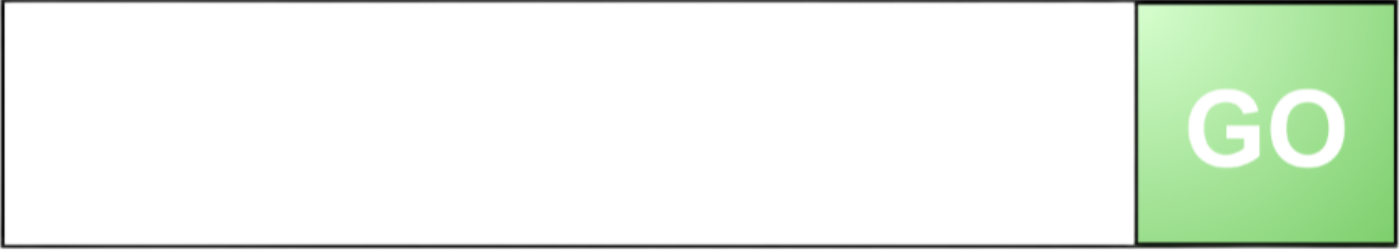
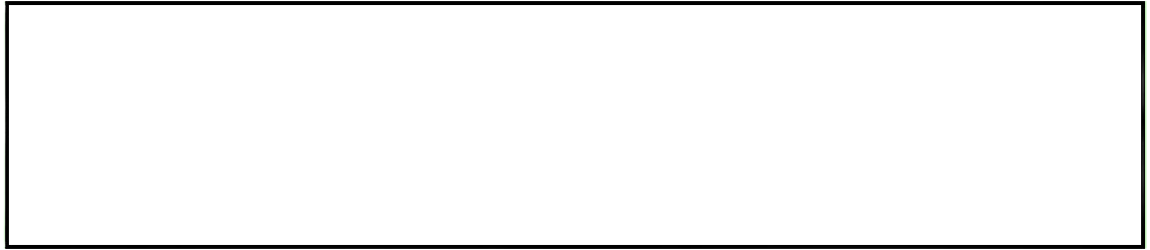
Implement typing functionality to user interface

Changed region(s): [[0.0, 0.0, 1.0, 1.0]]

diff --git a/src/sfmlhelpers.cpp b/src/sfmlhelpers.cpp
@@ -7,7 +7,7 @@
 
 // a lot of this has been inspired by and copied from my minesweeper project - Rylee
 
-TextureManager::TextureManager() : prefixbutton(prefixsearch), wordsearchbutton(wordsearch), gobutton(searchbar){
+TextureManager::TextureManager() : prefixbutton(prefixsearch), wordsearchbutton(wordsearch), gobutton(gotexture), searchbarsprite(searchbar){
 	if (!prefixsearch.loadFromFile("assets/images/prefixsearch.png"))
     	std::cout << "Failed to load prefixsearch" << std::endl;
 
@@ -30,10 +30,17 @@ TextureManager::TextureManager() : prefixbutton(prefixsearch), wordsearchbutton(
 
 	if (!searchbar.loadFromFile("assets/images/searchbar.png"))
 		std::cout << "Failed to load searchbar" << std::endl;
+
+	searchbarsprite.setTexture(searchbar, true);
+	searchbarsprite.setScale({.5, .5});
+	searchbarsprite.setPosition({585, 150});
+
+	if (!gotexture.loadFromFile("assets/images/gobutton.png"))
+		std::cout << "Failed to load go button" << std::endl;
 	
-	gobutton.setTexture(searchbar, true);
-	gobutton.setScale({.5, .5});
-	gobutton.setPosition({630, 160});
+	gobutton.setTexture(gotexture, true);
+	gobutton.setScale({.51, .51});
+	gobutton.setPosition({1148, 149});
 }
 
 // taken from the minesweeper specs with some modifications for sfml 3.0.2
@@ -66,7 +73,6 @@ DisplayWindow::DisplayWindow() :
   	hashtime(font),
   	hashresults(font){
 
-
 	// load our text font
 	font.openFromFile("assets/arialuni.ttf");
 
@@ -77,7 +83,6 @@ DisplayWindow::DisplayWindow() :
 
 	configureStaticText();
 }
-
 
 void DisplayWindow::configureStaticText(){
 	horizontaldivider.setSize({1839.5, 2});
@@ -93,6 +98,7 @@ void DisplayWindow::configureStaticText(){
 	setupText(wholedescription, "Search for a direct\n\n\ntranslation of the\n\n\nentered word.", 20, sf::Color::Black, {1754, 395}, false);
 	setupText(trietitle, "Trie Implementation", 50, sf::Color::Black, {490, 560}, true);
 	setupText(hashtitle, "Hash Map Implementation", 50, sf::Color::Black, {1433, 560}, true);
+	setupText(inputword, "", 35, sf::Color::Black, {630, 190}, false);
 }
 
 // signifcant help from my minesweeper project with the name typing and checking - Rylee
@@ -123,9 +129,61 @@ void DisplayWindow::updateInputText(sf::Event &event){
 			perform_search = true;
 		}
 	}
+	inputword.setString(input);
 }
 
-void DisplayWindow::updateResults(){
+void DisplayWindow::buttonClick(sf::Event &event){
+	if (auto clickevent = event.getIf<sf::Event::MouseButtonPressed>()){
+
+		sf::Vector2f mouseposition(clickevent->position);
+
+		// got help with translating sfml 2.x to 3.0.2 from google and AI
+		if (textures.prefixbutton.getGlobalBounds().contains(mouseposition)){
+			if (prefix_on){
+				prefix_on = false;
+				textures.prefixbutton.setTexture(textures.prefixsearch, true);
+			}
+			else {
+				prefix_on = true;
+				textures.prefixbutton.setTexture(textures.prefixsearch_pressed, true);
+				if (whole_on){
+					whole_on = false;
+					textures.wordsearchbutton.setTexture(textures.wordsearch, true);
+				}
+			}
+		}
+
+		if (textures.wordsearchbutton.getGlobalBounds().contains(mouseposition)){
+			if (whole_on){
+				whole_on = false;
+				textures.wordsearchbutton.setTexture(textures.wordsearch, true);
+			}
+			else {
+				whole_on = true;
+				textures.wordsearchbutton.setTexture(textures.wordsearch_pressed, true);
+				if (prefix_on){
+					prefix_on = false;
+					textures.prefixbutton.setTexture(textures.prefixsearch, true);
+				}
+			}
+		}
+
+		if (textures.gobutton.getGlobalBounds().contains(mouseposition)){
+			if (prefix_on || whole_on && input.size() > 0)
+				runSearch();
+		}
+	}
+}
+
+void DisplayWindow::runSearch(){
+	
+}
+
+void DisplayWindow::updateTrieResults(){
+
+}
+
+void DisplayWindow::updateHashResults(){
 
 }
 
@@ -133,6 +191,7 @@ void DisplayWindow::drawButtons(){
 	window.draw(textures.prefixbutton);
 	window.draw(textures.wordsearchbutton);
 	window.draw(textures.gobutton);
+	window.draw(textures.searchbarsprite);
 }
 
 void DisplayWindow::drawText(){
@@ -162,7 +221,8 @@ void DisplayWindow::run(){
 			if (event->is<sf::Event::Closed>()) {
 				window.close();
 			}
-	
+			updateInputText(*event);
+			buttonClick(*event);
 		}
 		drawText();
 		window.display();

diff --git a/src/sfmlhelpers.h b/src/sfmlhelpers.h
@@ -14,11 +14,13 @@ struct TextureManager{
 	sf::Texture wordsearch;
 	sf::Texture wordsearch_pressed;
 	sf::Texture searchbar;
+	sf::Texture gotexture;
 
 	// three sprites - one for the prefix selection, word search selection, go button for search
 	sf::Sprite prefixbutton;
 	sf::Sprite wordsearchbutton;
 	sf::Sprite gobutton;
+	sf::Sprite searchbarsprite;
 
 	TextureManager();
 };
@@ -59,14 +61,23 @@ class DisplayWindow{
 		// sets up text that doesn't change on the window
 		void configureStaticText();
 
-		// sets up the text that appears after the results are calculated
-		void configureResultsText();
+		// sets up and updates the searchbar text
+		void updateSearchText();
 
 		// updates the user input text as they are typing
 		void updateInputText(sf::Event &event);
 
-		// updates the results under the trie and hash map implementations, along with the time taken
-		void updateResults();
+		// given a click event, determine if they clicked any buttons and deal with the buttons
+		void buttonClick(sf::Event &event);
+
+		// if an option is picked and a word is entered and they press go, run the translator
+		void runSearch();
+
+		// updates the results under the hash map implementations, along with the time taken
+		void updateTrieResults();
+
+		// updates the results under the trie implementation, along with the time taken
+		void updateHashResults();
 
 		// display all the text on screen
 		void drawText();

diff --git a/src/main.cpp b/src/main.cpp
@@ -1,19 +1,9 @@
 #include <SFML/Graphics.hpp>
 #include <optional>
+#include "sfmlhelpers.h"
 
 int main()
 {
-	sf::RenderWindow window(sf::VideoMode({800, 600}), "My window");
-
-	while (window.isOpen())
-	{
-		while (auto event = window.pollEvent())
-		{
-			if (event->is<sf::Event::Closed>())
-				window.close();
-		}
-
-		window.clear(sf::Color::Black);
-		window.display();
-	}
+	DisplayWindow start;
+	start.run();
 }
